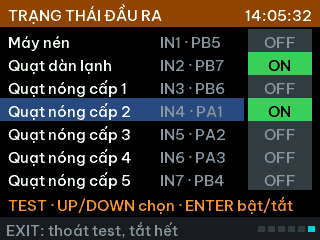
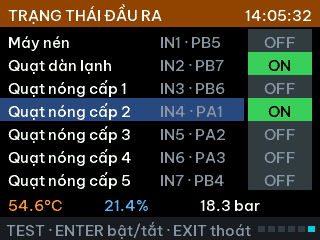
feat(ui): trang 6 hiện nhiệt độ · độ ẩm · áp suất thay dòng ghi chú ON/OFF
- dòng dưới cùng: T (cam) · RH (xanh) · áp suất bar, "--.-" khi mất cảm biến
- chế độ test báo ở footer "TEST · ENTER bật/tắt · EXIT thoát"

Claude-Session: https://claude.ai/code/session_01Q4RsSUfkgXaCjxshzdnzJP

Changed region(s): [[0.0312, 0.8167, 0.9375, 0.9042], [0.0, 0.9333, 0.7812, 0.9917]]

diff --git a/App/ui/ui_page_outputs.c b/App/ui/ui_page_outputs.c
@@ -6,7 +6,9 @@
  *  Mỗi đầu ra có 2 bit trong view:
  *    out_cmd   – đang được yêu cầu BẬT (bộ điều khiển hoặc test)
  *    out_relay – relay thật đang đóng
- *  Giả lập với "Relay thật" = Tắt: yêu cầu BẬT nhưng relay không đóng → hiện "ON*".
+ *  Yêu cầu BẬT nhưng relay chưa đóng (giả lập Relay thật = Tắt / đang nghỉ đổi cấp quạt) → ô vàng "ON*".
+ *
+ *  Dòng dưới cùng: nhiệt độ · độ ẩm · áp suất hiện tại.
  *
  *  Test đầu ra (chỉ khi máy không chạy – app kiểm tra):
  *    ENTER        vào test
@@ -60,15 +62,28 @@ static void draw_values(bool full)
 {
     const ui_view_t *v = &g_ui.v;
     static uint8_t last_cmd = 0xFF, last_rly = 0xFF, last_cur = 0xFF;
-    static bool last_test, last_sim;
+    static bool last_test;
+    static char last_meas[3][12];
+    char meas[3][12], n[8];
 
     if (s_test && !v->out_test) s_test = false;          /* app đã thoát test (hết giờ / máy chạy) */
 
+    /* dòng số đo */
+    w_fmt_value(n, sizeof(n), v->temp_ok, v->temp);   snprintf(meas[0], sizeof(meas[0]), "%s°C", n);
+    w_fmt_value(n, sizeof(n), v->hum_ok, v->hum);     snprintf(meas[1], sizeof(meas[1]), "%s%%", n);
+    w_fmt_value(n, sizeof(n), v->press_ok, v->press); snprintf(meas[2], sizeof(meas[2]), "%s bar", n);
+    bool meas_chg = full || memcmp(meas, last_meas, sizeof(meas)) != 0;
+    if (meas_chg) {
+        memcpy(last_meas, meas, sizeof(meas));
+        w_text(X_NAME,        Y_NOTE, 96,  meas[0], UC_TEMP,  UC_BG, TEXT_LEFT);
+        w_text(X_NAME + 96,   Y_NOTE, 96,  meas[1], UC_HUM,   UC_BG, TEXT_LEFT);
+        w_text(X_NAME + 192,  Y_NOTE, TFT_WIDTH - 16 - 192, meas[2], UC_VALUE, UC_BG, TEXT_LEFT);
+    }
+
     bool labels = full || last_test != s_test || last_cur != s_cur;
-    if (!labels && last_cmd == v->out_cmd && last_rly == v->out_relay && last_sim == g_ui.sim_on) return;
+    if (!labels && last_cmd == v->out_cmd && last_rly == v->out_relay) return;
     last_cmd = v->out_cmd;
     last_rly = v->out_relay;
-    last_sim = g_ui.sim_on;
 
     if (labels) {
         for (uint8_t i = 0; i < out_count(); i++) draw_row_label(i, s_test && i == s_cur);
@@ -76,27 +91,16 @@ static void draw_values(bool full)
         last_cur = s_cur;
     }
 
-    bool mismatch = false;
     for (uint8_t i = 0; i < out_count(); i++) {
         bool cmd = (v->out_cmd >> i) & 1u;
         bool rly = (v->out_relay >> i) & 1u;
         int16_t y = (int16_t)(Y0 + i * LINE_H);
         if (cmd && !rly) {                                  /* yêu cầu bật nhưng relay chưa/không đóng */
             Text_Box(X_PILL, y, W_PILL, "ON*", F_TXT, C_BLACK, UC_WARN, TEXT_CENTER);
-            mismatch = true;
         } else {
             w_badge(X_PILL, y, W_PILL, rly ? "ON" : "OFF", rly);
         }
     }
-
-    if (s_test)
-        w_text(X_NAME, Y_NOTE, TFT_WIDTH - 16, "TEST · UP/DOWN chọn · ENTER bật/tắt", UC_CURSOR, UC_BG, TEXT_LEFT);
-    else if (mismatch && g_ui.sim_on)
-        w_text(X_NAME, Y_NOTE, TFT_WIDTH - 16, "* giả lập: relay không đóng", UC_WARN, UC_BG, TEXT_LEFT);
-    else if (mismatch)
-        w_text(X_NAME, Y_NOTE, TFT_WIDTH - 16, "* đang nghỉ đổi cấp quạt", UC_WARN, UC_BG, TEXT_LEFT);
-    else
-        w_text(X_NAME, Y_NOTE, TFT_WIDTH - 16, "Chân ra: ON = 0 V · OFF = 3.3 V", UC_LABEL, UC_BG, TEXT_LEFT);
 }
 
 static void key(ui_key_t k, ui_press_t p)
@@ -134,7 +138,7 @@ static void key(ui_key_t k, ui_press_t p)
 
 static const char *hint(void)
 {
-    return s_test ? "EXIT: thoát test, tắt hết" : "ENTER: test đầu ra · EXIT: về";
+    return s_test ? "TEST · ENTER bật/tắt · EXIT thoát" : "ENTER: test đầu ra · EXIT: về";
 }
 
 const ui_screen_t scr_outputs = {

diff --git a/docs/UI.md b/docs/UI.md
@@ -26,7 +26,7 @@ Giao diện dùng font **Be Vietnam Pro** (SIL Open Font License 1.1) chuyển t
 | 3 Thời gian sấy | HH:MM (00:00 = không giới hạn). **Chỉ dùng cho chế độ Tự động**, Thủ công hiện "không áp dụng" | ENTER: chỉnh từng chữ số |
 | 4 Quạt dàn nóng | Chế độ Tự động / Thủ công, bảng 5 giai đoạn + cấp quạt, nhiệt độ bảo vệ, thời gian chờ máy nén | ENTER: danh sách cài đặt |
 | 5 Lịch sử lỗi | Lỗi đang có + 6 lỗi gần nhất (ngày giờ, tên lỗi) | ENTER: xoá lỗi đang có · Giữ EXIT 3 s: xoá lịch sử |
-| 6 Trạng thái đầu ra | 7 relay (máy nén, quạt dàn lạnh, quạt nóng cấp 1–5) kèm chân IN/GPIO, ô **ON** xanh / **OFF** xám. Dòng dưới: chân ra **ON = 0 V, OFF = 3.3 V** (module relay kích mức thấp). Giả lập với *Relay thật = Tắt*: ô vàng **ON\*** = bộ điều khiển yêu cầu bật nhưng relay không đóng | **ENTER: test đầu ra** (xem dưới) |
+| 6 Trạng thái đầu ra | 7 relay (máy nén, quạt dàn lạnh, quạt nóng cấp 1–5) kèm chân IN/GPIO, ô **ON** xanh / **OFF** xám. Dòng dưới: **nhiệt độ · độ ẩm · áp suất** hiện tại. Chân ra: ON = 0 V, OFF = 3.3 V (module relay kích mức thấp). Giả lập với *Relay thật = Tắt*: ô vàng **ON\*** = bộ điều khiển yêu cầu bật nhưng relay không đóng | **ENTER: test đầu ra** (xem dưới) |
 
 Ở mọi trang: **giữ ENTER 3 s → menu chế độ sấy**, EXIT → về trang chính.
 Header luôn hiện đồng hồ HH:MM:SS; footer hiện gợi ý phím, thông báo và số trang (6 ô vuông).
@@ -42,7 +42,7 @@ nên dùng được cả khi chưa gắn cảm biến).
 
 | Phím | Tác dụng |
 |------|----------|
-| ENTER | vào test (dòng đang chọn tô xanh) |
+| ENTER | vào test (dòng đang chọn tô xanh, footer hiện *TEST*) |
 | UP / DOWN | chọn đầu ra |
 | ENTER | bật / tắt đầu ra đang chọn |
 | EXIT | thoát test, **tắt hết** |
